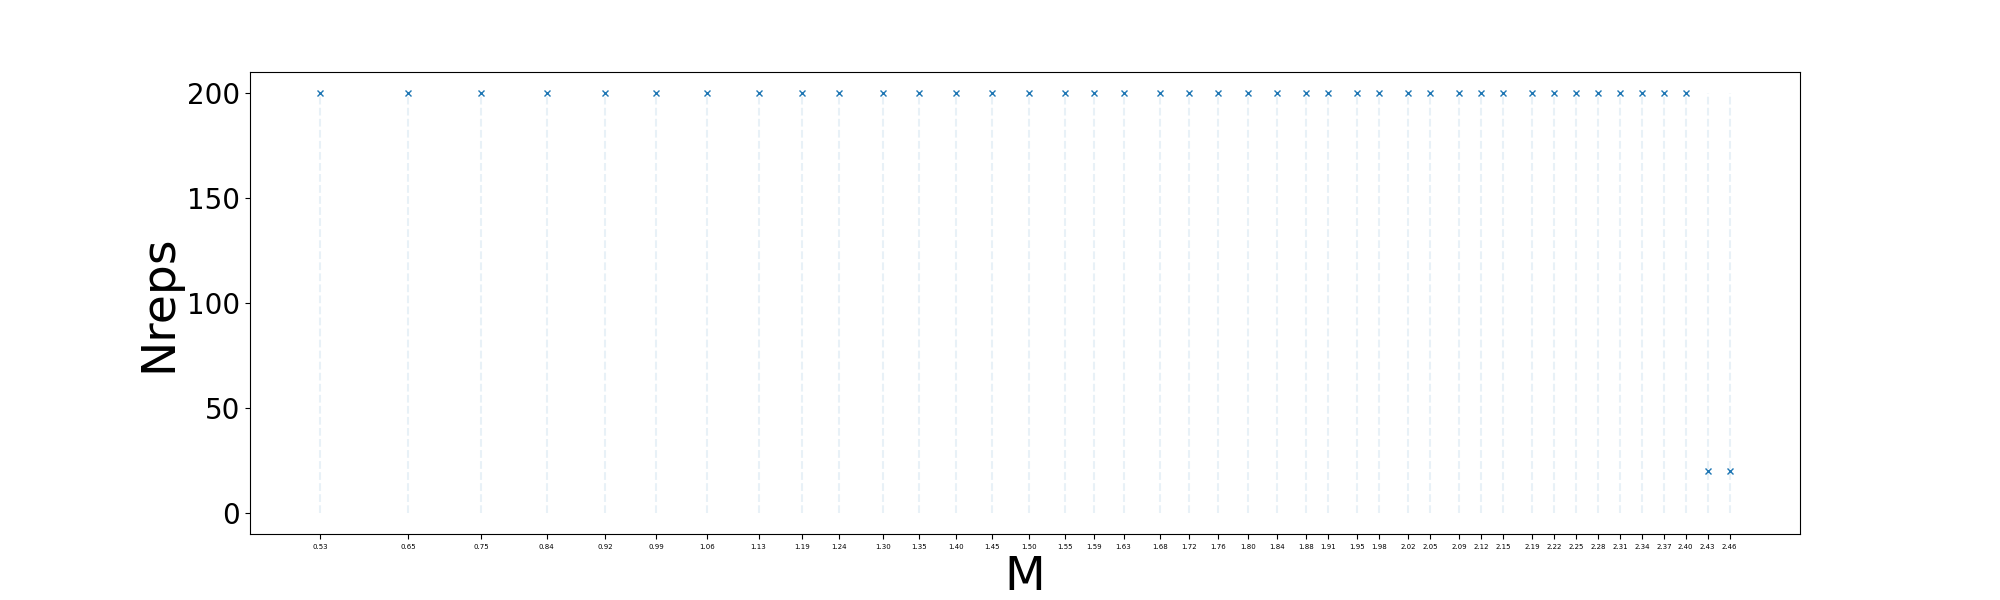
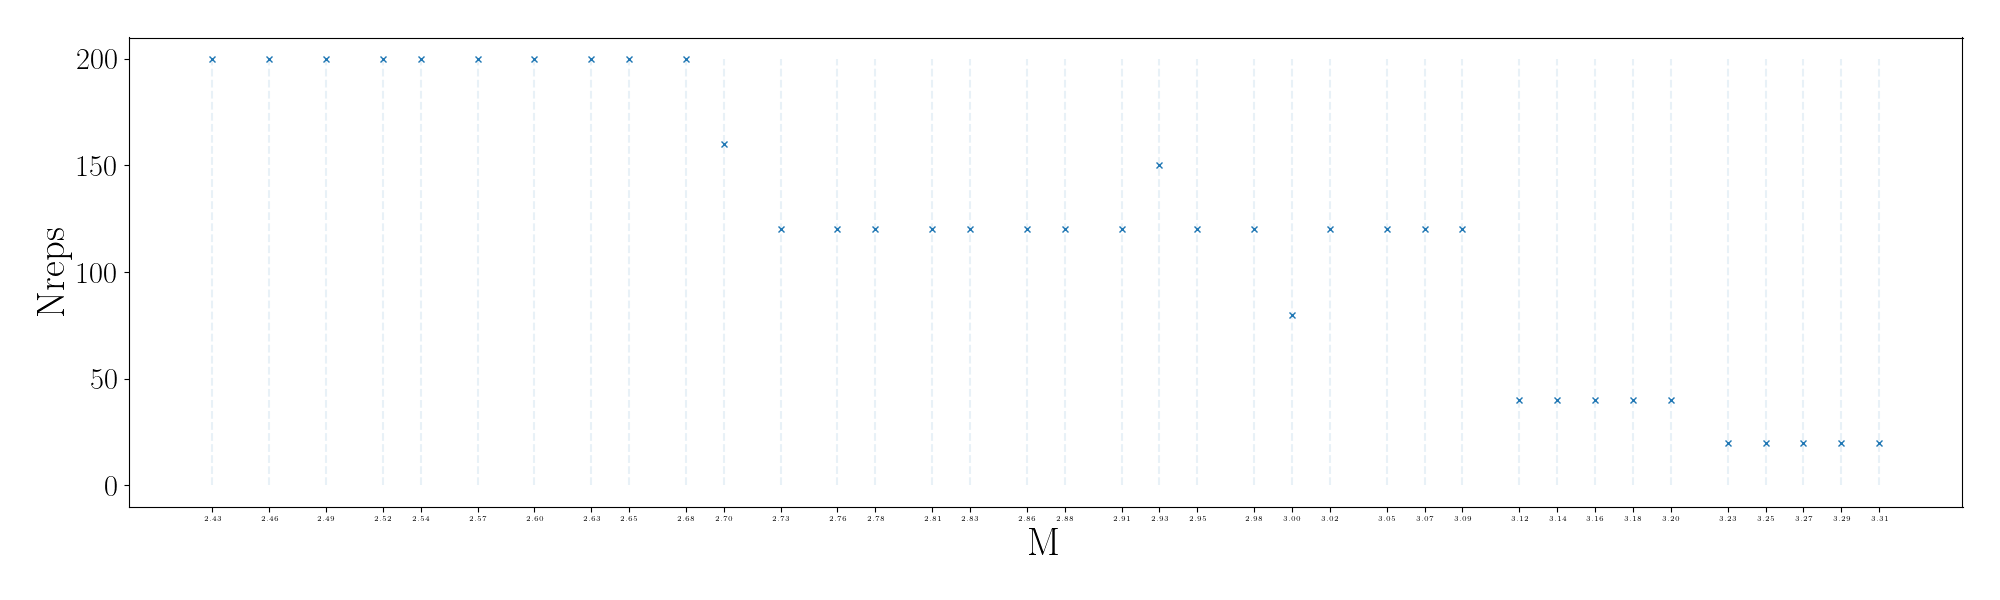
new lambdas

diff --git a/scripts_py/molecule_lambda_distribution.py b/scripts_py/molecule_lambda_distribution.py
@@ -21,9 +21,9 @@ use_selected_masses = True #gives equal spacing
 #stef_txt_in_file = 1 #used when _stef.txt was added from Stef's jobs
 
 
-plot_histogram_Nreps = 0
+plot_histogram_Nreps = 1
 plot_boundaries = 0
-plot_molecules = 1
+plot_molecules = 0
 do_also_not_main_plots = 0 #those NOT for poster
 
 
@@ -66,13 +66,19 @@ else:
 
 
 selected_masses = np.array([
-                            0.53 ,0.65, 0.75, 0.84, 0.92, 0.99, 1.06, 
-                            1.13, 1.19, 1.24, 1.30, 1.35, 1.40, 1.45, 
-                            1.50, 1.55, 1.59, 1.63, 1.68, 1.72, 1.76, 
-                            1.80, 1.84, 1.88, 1.91, 1.95, 1.98, 2.02, 
-                            2.05, 2.09, 2.12, 2.15, 2.19, 2.22, 2.25, 
-                            2.28, 2.31, 2.34, 2.37, 2.40, 
-                            #2.43, 2.46, 2.49, 2.52, 2.54, 2.57, 2.60, 2.63
+                            # 0.53 ,0.65, 0.75, 0.84, 0.92, 0.99, 1.06, 
+                            # 1.13, 1.19, 1.24, 1.30, 1.35, 1.40, 1.45, 
+                            # 1.50, 1.55, 1.59, 1.63, 1.68, 1.72, 1.76, 
+                            # 1.80, 1.84, 1.88, 1.91, 1.95, 1.98, 2.02, 
+                            # 2.05, 2.09, 2.12, 2.15, 2.19, 2.22, 2.25, 
+                            # 2.28, 2.31, 2.34, 2.37, 2.40, 
+                            2.43, 2.46, 2.49, 2.52, 2.54, 2.57, 2.6, 
+                            2.63, 2.65, 2.68, 2.70, 2.73, 2.76, 2.78, 
+                            2.81, 2.83, 2.86, 2.88, 2.91, 2.93, 2.95, 
+                            2.98, 3.00, 3.02, 3.05, 3.07, 3.09, 3.12, 
+                            3.14, 3.16, 3.18, 3.20, 3.23, 3.25, 3.27, 
+                            3.29, 3.31, 
+                            3.33, 3.35, 3.38, 3.40, 3.42, 3.44 
                             ])
 
 
